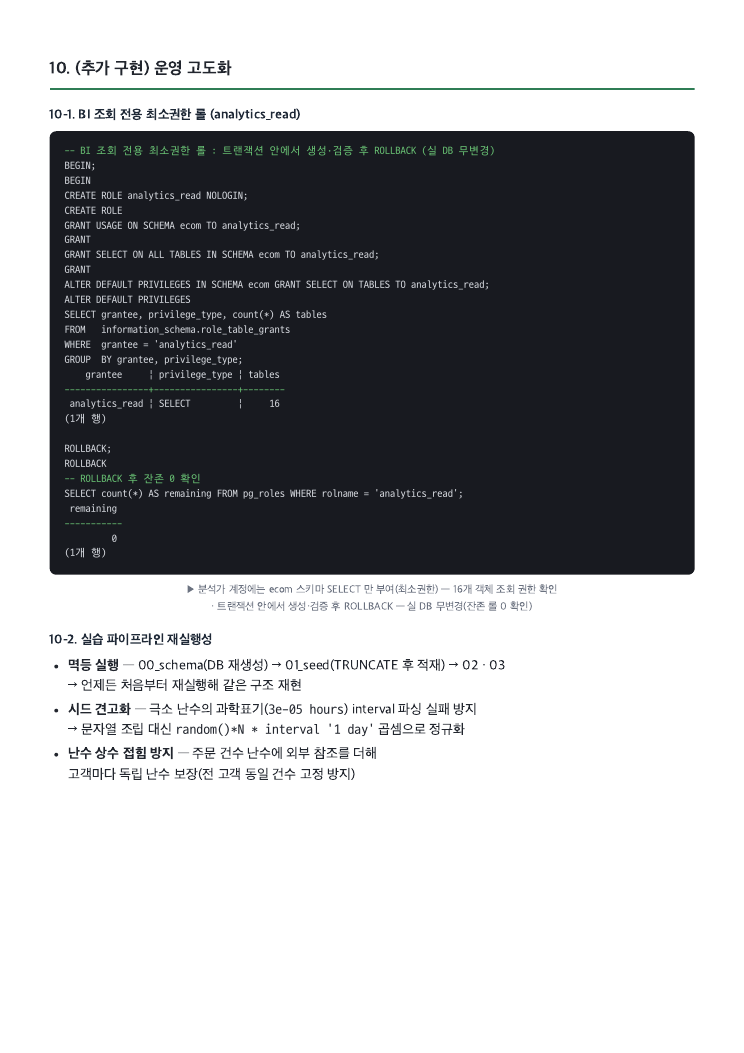
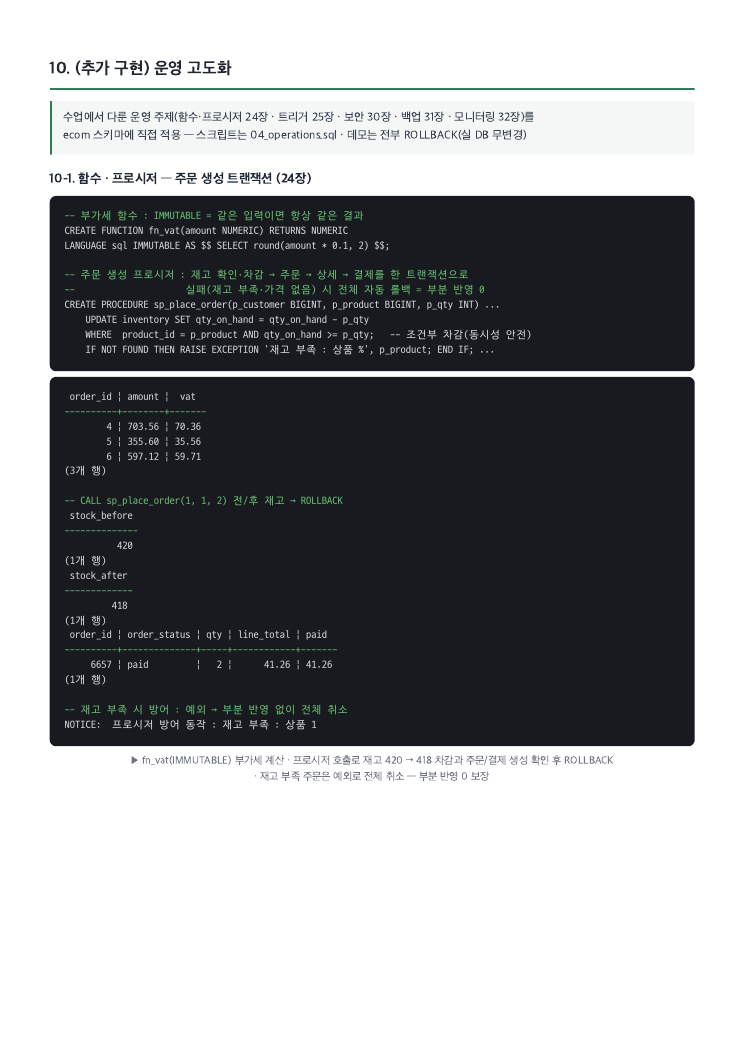
운영 심화(함수·트리거·RLS·백업·모니터링) 추가, 리포트 보완

Changed region(s): [[0.0618, 0.0912, 0.9583, 0.7597], [0.5874, 0.4558, 0.6183, 0.4862], [0.5255, 0.4558, 0.5565, 0.4862]]

diff --git a/README.md b/README.md
@@ -21,6 +21,7 @@ Day4_종합실습4_ecommerce/
 │   ├── 01_seed.sql          # 실습 데이터 적재 (600상품 · 3,000고객)
 │   ├── 02_queries.sql       # Q1~Q11 · 문항별 튜닝 전/후 + EXPLAIN
 │   ├── 03_explain_mview.sql # 조인 3종 비교 + Materialized View
+│   ├── 04_operations.sql    # 운영 심화 (함수·프로시저·트리거·RLS·모니터링)
 ├── erd/                     # ERD 도식(png·html)
 ├── docs/                    # 리포트 PDF · pdf_pages(페이지 미리보기)
 └── README.md · .gitignore
@@ -32,6 +33,7 @@ psql -d postgres -f sql/00_schema.sql
 psql -d ecom_db -f sql/01_seed.sql
 psql -d ecom_db -f sql/02_queries.sql
 psql -d ecom_db -f sql/03_explain_mview.sql
+psql -d ecom_db -f sql/04_operations.sql
 ```
 
 ## 성능 개선 대표 결과 (문항별 튜닝 전/후)
@@ -76,13 +78,18 @@ psql -d ecom_db -f sql/03_explain_mview.sql
 ![리포트 p29](docs/pdf_pages/page-29.png)
 ![리포트 p30](docs/pdf_pages/page-30.png)
 ![리포트 p31](docs/pdf_pages/page-31.png)
+![리포트 p32](docs/pdf_pages/page-32.png)
+![리포트 p33](docs/pdf_pages/page-33.png)
+![리포트 p34](docs/pdf_pages/page-34.png)
+![리포트 p35](docs/pdf_pages/page-35.png)
 
 ## 설계·간결화 방법
 - 쿼리마다 만들고 EXPLAIN ANALYZE 로 점검 → 인덱스/재작성(또는 현행 최적 판정) → 재점검 순서 고정
 - 튜닝 인덱스는 운영처럼 누적 적용 — 뒤 문항(Q3·Q10)이 앞 문항 인덱스를 자동 재사용함을 확인
 - 반복 집계는 Materialized View 로 캐시 · 리포트 소비 직전 매일 15:00 CONCURRENTLY 갱신 설계
+- 운영 심화 : 주문 생성 프로시저(트랜잭션) · 감사 트리거 · RLS · pg_dump 복구 검증 · 모니터링 쿼리
 
 ## 변경 이력
 - 2026-07-22 최초 작성
 - 2026-07-23 리포트 표준 양식(목차·커버리지표·접속화면) 이식
-- 2026-07-24 리포트 보완 (실습 제공 ecom 스키마 14테이블 · 문항별 튜닝 전/후 · 조인 3종)
+- 2026-07-24 리포트 보완 (실습 제공 ecom 스키마 14테이블 · 문항별 튜닝 전/후 · 조인 3종 · 운영 심화)